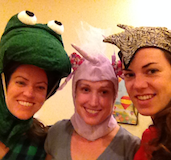
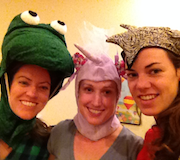
Repositioned images

diff --git a/index.html b/index.html
@@ -43,8 +43,8 @@
 	    <h2>Fresh Out the Oven</h2>
 	    <p>Our newest cupcakes are <a href="#">Bacon Me Crazy</a> and <a href="#">Jalapeño So Spicy</a></p>
 	    <img src="img/silly_hats_newyears.png" alt="Silly hats on on New Year's Eve">
-	    <img src="img/silly_hats_halloween.png" alt="Silly hats on Halloween">
-	    <img src="img/silly_hats_unc.jpg" alt="Silly hats at UNC">
+	    <img src="img/silly_hats_halloween.jpg" alt="Silly hats on Halloween">
+      <img src="img/silly_hats_unc.jpg" alt="Silly hats at UNC" style="float:right">
 		</div>
 
 

diff --git a/css/style.css b/css/style.css
@@ -58,7 +58,7 @@ ul.nav li a {
 
 #new-cupcakes img {
 	border: 8px solid #FAF3BC;
-	margin: 0 20px 20px 0;
+	margin: 0 0 20px 0;
 }
 
 #featured-cupcake img {
